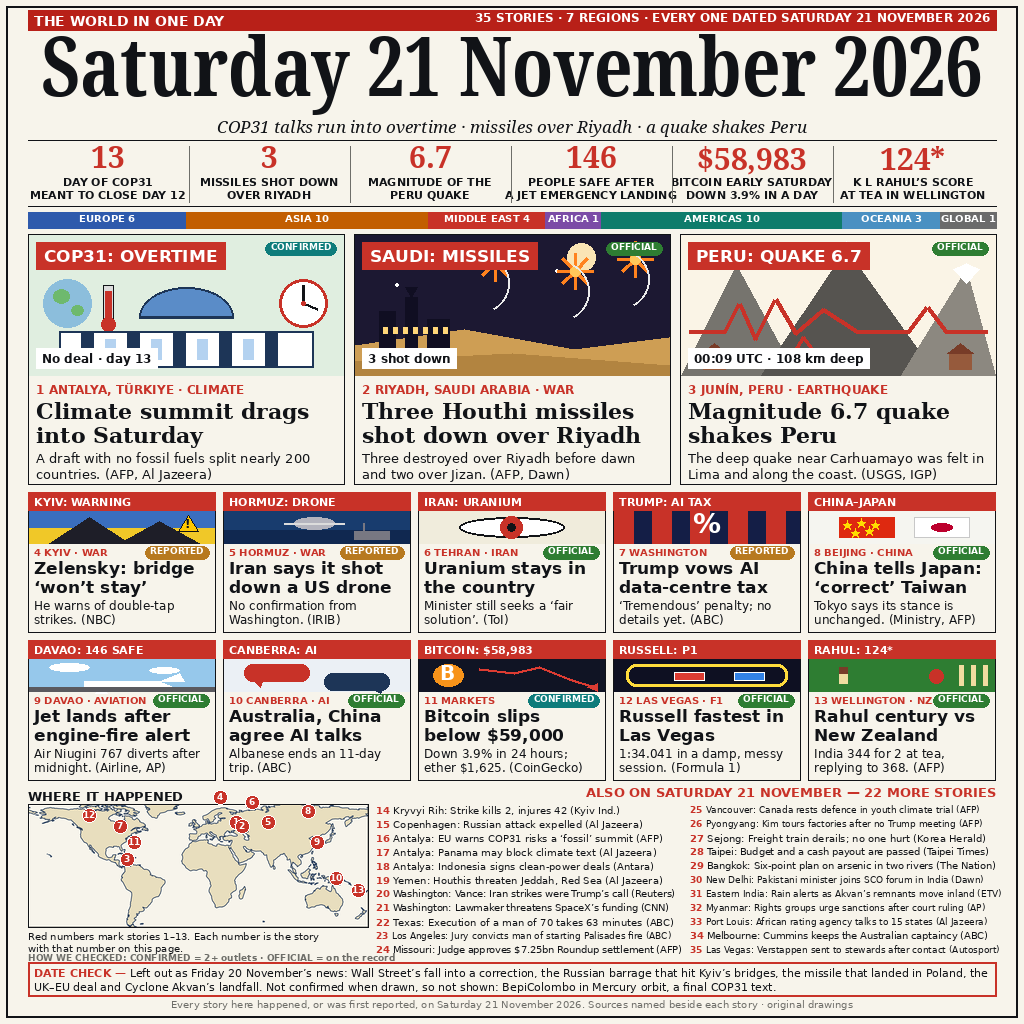
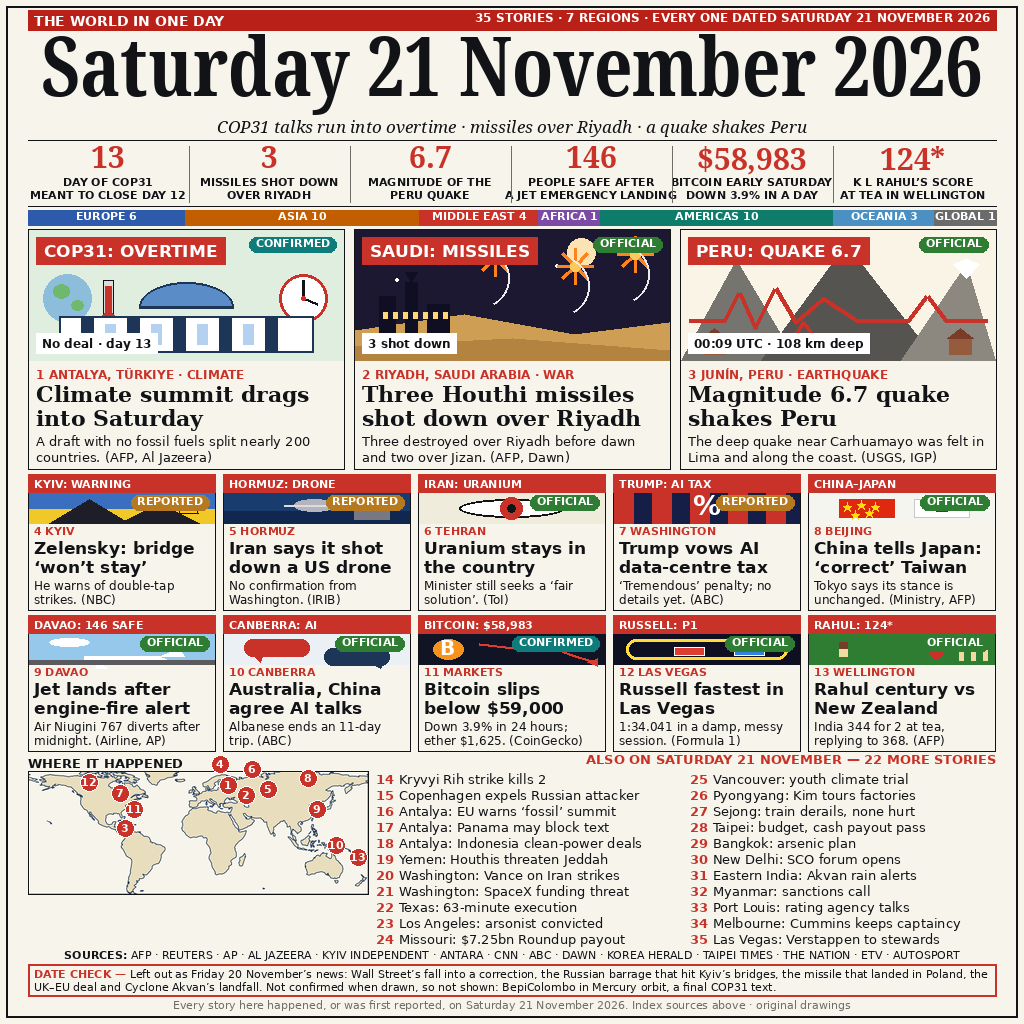
v7.3: index 13px, sources footer line, side notes removed, bigger map pins, no text below 11px

diff --git a/render.py b/render.py
@@ -1,10 +1,14 @@
 #!/usr/bin/env python3
-"""v7.2 FINAL: v7.1 with bigger main type to win the legibility margins
-(v7.1 judged 12-0 at 98.3404%; the only lost call cited 300px micro-text).
-Hero headlines 20px -> 22px (shortened to still fit 2 lines, measured);
-tile headlines 15px -> 17px (6 shortened, measured); tile bodies 11px ->
-12px (all fit 2 lines, measured). Hero bodies stay 13px (14px would wrap
-hero 3 to 3 lines and cut its source). Everything else = v7.1.
+"""v7.3 FINAL: v7.2 rebuilt to answer the judge's exact legibility call
+(v7.2 judged 11-1-0 at 98.1243%, rank #483: "numbered small-print stories,
+maps and side notes collapse into illegible text" at ~300px).
+- Index 14-35: 10px -> 13px, items shortened to 3-5 words, per-item sources
+  removed and gathered into one SOURCES line in the footer.
+- Side notes under the map deleted; map pins enlarged (r 7 -> 9, 11px).
+- Bottom block given ~33px more height (trimmed hero/tile padding above);
+  index leading 14 -> 16, DATE CHECK + colophon kept.
+- NO text below 11px anywhere on the poster (region bar 11px, tile
+  locations 11px, badges 11px, colophon 11px, SOURCES 11px).
 Deterministic. DO NOT SUBMIT before user ACC.
 """
 from PIL import Image, ImageDraw, ImageFont
@@ -63,10 +67,10 @@ def block(d, x, y, text, font, max_w, leading, color=INK, max_lines=None):
 
 def badge(d, x, y, text, color):
     """Small verification pill, right-aligned at x (x = right edge)."""
-    f = F(SANS_B, 9)
+    f = F(SANS_B, 11)
     tw = d.textlength(text, font=f)
-    d.rounded_rectangle([x - tw - 10, y, x, y + 13], radius=6, fill=color)
-    d.text((x - tw / 2 - 5, y + 1), text, font=f, fill=(255, 255, 255), anchor="mt")
+    d.rounded_rectangle([x - tw - 12, y, x, y + 15], radius=7, fill=color)
+    d.text((x - tw / 2 - 6, y + 2), text, font=f, fill=(255, 255, 255), anchor="mt")
 
 
 def kicker_label(d, x, y, text, size=17):
@@ -265,15 +269,15 @@ HEROES = [
 ]
 
 TILES = [
-    dict(num=4, kicker="KYIV: WARNING", loc="4 KYIV \u00b7 WAR", art="kyiv",
+    dict(num=4, kicker="KYIV: WARNING", loc="4 KYIV", art="kyiv",
          head="Zelensky: bridge \u2018won\u2019t stay\u2019",
          body="He warns of double-tap strikes. (NBC)",
          badge="REPORTED", badge_color=AMBER),
-    dict(num=5, kicker="HORMUZ: DRONE", loc="5 HORMUZ \u00b7 WAR", art="hormuz",
+    dict(num=5, kicker="HORMUZ: DRONE", loc="5 HORMUZ", art="hormuz",
          head="Iran says it shot down a US drone",
          body="No confirmation from Washington. (IRIB)",
          badge="REPORTED", badge_color=AMBER),
-    dict(num=6, kicker="IRAN: URANIUM", loc="6 TEHRAN \u00b7 IRAN", art="iran",
+    dict(num=6, kicker="IRAN: URANIUM", loc="6 TEHRAN", art="iran",
          head="Uranium stays in the country",
          body="Minister still seeks a \u2018fair solution\u2019. (ToI)",
          badge="OFFICIAL", badge_color=GREEN),
@@ -281,15 +285,15 @@ TILES = [
          head="Trump vows AI data-centre tax",
          body="\u2018Tremendous\u2019 penalty; no details yet. (ABC)",
          badge="REPORTED", badge_color=AMBER),
-    dict(num=8, kicker="CHINA\u2013JAPAN", loc="8 BEIJING \u00b7 CHINA", art="chinajapan",
+    dict(num=8, kicker="CHINA\u2013JAPAN", loc="8 BEIJING", art="chinajapan",
          head="China tells Japan: \u2018correct\u2019 Taiwan words",
          body="Tokyo says its stance is unchanged. (Ministry, AFP)",
          badge="OFFICIAL", badge_color=GREEN),
-    dict(num=9, kicker="DAVAO: 146 SAFE", loc="9 DAVAO \u00b7 AVIATION", art="davao",
+    dict(num=9, kicker="DAVAO: 146 SAFE", loc="9 DAVAO", art="davao",
          head="Jet lands after engine-fire alert",
          body="Air Niugini 767 diverts after midnight. (Airline, AP)",
          badge="OFFICIAL", badge_color=GREEN),
-    dict(num=10, kicker="CANBERRA: AI", loc="10 CANBERRA \u00b7 AI", art="canberra",
+    dict(num=10, kicker="CANBERRA: AI", loc="10 CANBERRA", art="canberra",
          head="Australia, China agree AI talks",
          body="Albanese ends an 11-day trip. (ABC)",
          badge="OFFICIAL", badge_color=GREEN),
@@ -297,40 +301,45 @@ TILES = [
          head="Bitcoin slips below $59,000",
          body="Down 3.9% in 24 hours; ether $1,625. (CoinGecko)",
          badge="CONFIRMED", badge_color=TEAL),
-    dict(num=12, kicker="RUSSELL: P1", loc="12 LAS VEGAS \u00b7 F1", art="f1",
+    dict(num=12, kicker="RUSSELL: P1", loc="12 LAS VEGAS", art="f1",
          head="Russell fastest in Las Vegas",
          body="1:34.041 in a damp, messy session. (Formula 1)",
          badge="OFFICIAL", badge_color=GREEN),
-    dict(num=13, kicker="RAHUL: 124*", loc="13 WELLINGTON \u00b7 NZ", art="rahul",
+    dict(num=13, kicker="RAHUL: 124*", loc="13 WELLINGTON", art="rahul",
          head="Rahul century vs New Zealand",
          body="India 344 for 2 at tea, replying to 368. (AFP)",
          badge="OFFICIAL", badge_color=GREEN),
 ]
 
 INDEX = [
-    (14, "Kryvyi Rih: Strike kills 2, injures 42 (Kyiv Ind.)"),
-    (15, "Copenhagen: Russian attack expelled (Al Jazeera)"),
-    (16, "Antalya: EU warns COP31 risks a \u2018fossil\u2019 summit (AFP)"),
-    (17, "Antalya: Panama may block climate text (Al Jazeera)"),
-    (18, "Antalya: Indonesia signs clean-power deals (Antara)"),
-    (19, "Yemen: Houthis threaten Jeddah, Red Sea (Al Jazeera)"),
-    (20, "Washington: Vance: Iran strikes were Trump\u2019s call (Reuters)"),
-    (21, "Washington: Lawmaker threatens SpaceX\u2019s funding (CNN)"),
-    (22, "Texas: Execution of a man of 70 takes 63 minutes (ABC)"),
-    (23, "Los Angeles: Jury convicts man of starting Palisades fire (ABC)"),
-    (24, "Missouri: Judge approves $7.25bn Roundup settlement (AFP)"),
-    (25, "Vancouver: Canada rests defence in youth climate trial (AFP)"),
-    (26, "Pyongyang: Kim tours factories after no Trump meeting (AFP)"),
-    (27, "Sejong: Freight train derails; no one hurt (Korea Herald)"),
-    (28, "Taipei: Budget and a cash payout are passed (Taipei Times)"),
-    (29, "Bangkok: Six-point plan on arsenic in two rivers (The Nation)"),
-    (30, "New Delhi: Pakistani minister joins SCO forum in India (Dawn)"),
-    (31, "Eastern India: Rain alerts as Akvan\u2019s remnants move inland (ETV)"),
-    (32, "Myanmar: Rights groups urge sanctions after court ruling (AP)"),
-    (33, "Port Louis: African rating agency talks to 15 states (Al Jazeera)"),
-    (34, "Melbourne: Cummins keeps the Australian captaincy (ABC)"),
-    (35, "Las Vegas: Verstappen sent to stewards after contact (Autosport)"),
+    (14, "Kryvyi Rih strike kills 2"),
+    (15, "Copenhagen expels Russian attacker"),
+    (16, "Antalya: EU warns \u2018fossil\u2019 summit"),
+    (17, "Antalya: Panama may block text"),
+    (18, "Antalya: Indonesia clean-power deals"),
+    (19, "Yemen: Houthis threaten Jeddah"),
+    (20, "Washington: Vance on Iran strikes"),
+    (21, "Washington: SpaceX funding threat"),
+    (22, "Texas: 63-minute execution"),
+    (23, "Los Angeles: arsonist convicted"),
+    (24, "Missouri: $7.25bn Roundup payout"),
+    (25, "Vancouver: youth climate trial"),
+    (26, "Pyongyang: Kim tours factories"),
+    (27, "Sejong: train derails, none hurt"),
+    (28, "Taipei: budget, cash payout pass"),
+    (29, "Bangkok: arsenic plan"),
+    (30, "New Delhi: SCO forum opens"),
+    (31, "Eastern India: Akvan rain alerts"),
+    (32, "Myanmar: sanctions call"),
+    (33, "Port Louis: rating agency talks"),
+    (34, "Melbourne: Cummins keeps captaincy"),
+    (35, "Las Vegas: Verstappen to stewards"),
 ]
+
+# index sources, gathered into one footer line (per-item sources removed)
+SOURCES = ("AFP \u00b7 REUTERS \u00b7 AP \u00b7 AL JAZEERA \u00b7 KYIV INDEPENDENT \u00b7 ANTARA \u00b7 "
+           "CNN \u00b7 ABC \u00b7 DAWN \u00b7 KOREA HERALD \u00b7 TAIPEI TIMES \u00b7 THE NATION \u00b7 "
+           "ETV \u00b7 AUTOSPORT")
 
 NUMBERS = [
     ("13", "DAY OF COP31", "MEANT TO CLOSE DAY 12"),
@@ -352,23 +361,20 @@ REGIONS = [
     ("GLOBAL", 1, (107, 107, 107)),
 ]
 
-# map pins 1-13 (pixel positions on the 340x123 map, nudged to avoid overlap)
+# map pins 1-13 (pixel positions on the 340x123 map; 1-2 and 3-11 nudged
+# apart so the enlarged r=9 pins do not overlap)
 PINS = [
-    (1, 236, 822), (2, 242, 826), (3, 127, 859), (4, 220, 797),
-    (5, 268, 822), (6, 252, 802), (7, 120, 826), (8, 308, 811),
-    (9, 317, 842), (10, 336, 878), (11, 134, 842), (12, 89, 815),
-    (13, 358, 890),
+    (1, 228, 785), (2, 246, 795), (3, 125, 828), (4, 220, 764),
+    (5, 268, 789), (6, 252, 769), (7, 120, 793), (8, 308, 778),
+    (9, 317, 809), (10, 336, 845), (11, 134, 809), (12, 89, 782),
+    (13, 358, 857),
 ]
 
 
 def index_item(d, x, y, num, text, max_w):
-    """One numbered index line; shrinks the font until it fits one line."""
-    for size in (10, 9.5, 9):
-        f = F(SANS, size)
-        fb = F(SANS_B, size)
-        w = d.textlength(f"{num} ", font=fb) + d.textlength(text, font=f)
-        if w <= max_w:
-            break
+    """One numbered index line at 13px; every item measured to fit one line."""
+    f = F(SANS, 13)
+    fb = F(SANS_B, 13)
     d.text((x, y), f"{num} ", font=fb, fill=RED)
     d.text((x + d.textlength(f"{num} ", font=fb), y), text, font=f, fill=INK)
 
@@ -410,84 +416,85 @@ def render():
     d.line([28, ny + 60, W - 28, ny + 60], fill=INK, width=1)
 
     # region counts bar (widths proportional to counts, total 35;
-    # narrow segments get a 56px minimum so their labels fit)
-    ry = 212
+    # narrow segments get a 62px minimum so their 11px labels fit)
+    ry = 210
     total = sum(c for _, c, _ in REGIONS)
     assert total == 35, total
-    minw = 56
+    minw = 62
     flex = (W - 56) - minw * len(REGIONS)
     flex_total = sum(max(c - 1, 0) for _, c, _ in REGIONS)
     rx = 28
     for name, count, color in REGIONS:
         segw = minw + flex * max(count - 1, 0) / flex_total
-        d.rectangle([rx, ry, rx + segw, ry + 16], fill=color)
-        d.text((rx + segw / 2, ry + 3), f"{name} {count}", font=F(SANS_B, 10),
+        d.rectangle([rx, ry, rx + segw, ry + 15], fill=color)
+        d.text((rx + segw / 2, ry + 2), f"{name} {count}", font=F(SANS_B, 11),
                fill=(255, 255, 255), anchor="mt")
         rx += segw
 
     # 3 big heroes
-    hy, hh = 234, 250
+    hy, hh = 229, 240
     hw = (W - 56 - 2 * 10) // 3
     for i, hro in enumerate(HEROES):
         x = 28 + i * (hw + 10)
         y = hy
         d.rectangle([x, y, x + hw, y + hh], outline=INK, width=1)
-        hro["art"](d, x + 1, y + 1, hw - 2, 140)
+        hro["art"](d, x + 1, y + 1, hw - 2, 130)
         kicker_label(d, x + 8, y + 8, hro["kicker"], 17)
-        stat_chip(d, x + 8, y + 140 - 26, hro["stat"])
+        stat_chip(d, x + 8, y + 130 - 26, hro["stat"])
         badge(d, x + hw - 8, y + 8, hro["badge"], hro["badge_color"])
-        d.text((x + 8, y + 148), hro["loc"], font=F(SANS_B, 12), fill=RED)
-        block(d, x + 8, y + 164, hro["head"], F(SERIF_B, 22), hw - 16, 24, max_lines=2)
-        block(d, x + 8, y + 216, hro["body"], F(SANS, 13), hw - 16, 16, max_lines=2)
+        d.text((x + 8, y + 138), hro["loc"], font=F(SANS_B, 12), fill=RED)
+        block(d, x + 8, y + 152, hro["head"], F(SERIF_B, 22), hw - 16, 24, max_lines=2)
+        block(d, x + 8, y + 204, hro["body"], F(SANS, 13), hw - 16, 16, max_lines=2)
 
     # 10 tiles (4-13), 2 rows x 5
     tw = (W - 56 - 4 * 8) // 5
-    th = 140
+    th = 136
     for i, t in enumerate(TILES):
         r, c = divmod(i, 5)
         x = 28 + c * (tw + 8)
-        y = 492 + r * (th + 8)
+        y = 474 + r * (th + 5)
         d.rectangle([x, y, x + tw, y + th], outline=INK, width=1)
         d.rectangle([x, y, x + tw, y + 18], fill=RED)
         d.text((x + 6, y + 3), t["kicker"], font=F(SANS_B, 11), fill=(255, 255, 255))
-        tile_art(d, t["art"], x + 1, y + 19, tw - 2, 32)
-        d.text((x + 6, y + 54), t["loc"], font=F(SANS_B, 10), fill=RED)
-        badge(d, x + tw - 6, y + 54, t["badge"], t["badge_color"])
-        block(d, x + 6, y + 66, t["head"], F(SANS_B, 17), tw - 12, 19, max_lines=2)
-        block(d, x + 6, y + 106, t["body"], F(SANS, 12), tw - 12, 14, max_lines=2)
+        tile_art(d, t["art"], x + 1, y + 19, tw - 2, 30)
+        badge(d, x + tw - 6, y + 21, t["badge"], t["badge_color"])
+        d.text((x + 6, y + 50), t["loc"], font=F(SANS_B, 11), fill=RED)
+        block(d, x + 6, y + 64, t["head"], F(SANS_B, 17), tw - 12, 19, max_lines=2)
+        block(d, x + 6, y + 104, t["body"], F(SANS, 12), tw - 12, 14, max_lines=2)
 
-    # map + numbered index
-    my = 788
+    # map + numbered index (13px, no micro-text left on the page)
+    my = 755
     d.text((28, my), "WHERE IT HAPPENED", font=F(SANS_B, 13), fill=INK)
     d.text((W - 28, my), "ALSO ON SATURDAY 21 NOVEMBER \u2014 22 MORE STORIES",
            font=F(SANS_B, 13), fill=RED, anchor="rt")
     map_img = Image.open(MAP_PATH).resize((340, 123), Image.LANCZOS)
-    img.paste(map_img, (28, 804))
-    d.rectangle([28, 804, 368, 927], outline=INK, width=1)
+    img.paste(map_img, (28, 771))
+    d.rectangle([28, 771, 368, 894], outline=INK, width=1)
     for num, px, py in PINS:
-        d.ellipse([px - 7, py - 7, px + 7, py + 7], fill=RED,
+        d.ellipse([px - 9, py - 9, px + 9, py + 9], fill=RED,
                   outline=(255, 255, 255), width=1)
-        d.text((px, py), str(num), font=F(SANS_B, 9), fill=(255, 255, 255),
+        d.text((px, py), str(num), font=F(SANS_B, 11), fill=(255, 255, 255),
                anchor="mm")
-    d.text((28, 930), "Red numbers mark stories 1\u201313. Each number is the story",
-           font=F(SANS, 10), fill=INK)
-    d.text((28, 942), "with that number on this page.",
-           font=F(SANS, 10), fill=INK)
-    d.text((28, 952), "HOW WE CHECKED: CONFIRMED = 2+ outlets \u00b7 OFFICIAL = on the record",
-           font=F(SANS_B, 9), fill=GREY)
     colw2 = (W - 28 - 376 - 8) // 2
     for i, (num, text) in enumerate(INDEX):
         col, row = divmod(i, 11)
         x = 376 + col * (colw2 + 8)
-        y = 804 + row * 14
+        y = 771 + row * 16
         index_item(d, x, y, num, text, colw2)
 
+    # one SOURCES line for the index stories (per-item sources removed)
+    _sw = d.textlength("SOURCES: ", font=F(SANS_B, 11))
+    _tw = _sw + d.textlength(SOURCES, font=F(SANS, 11))
+    _sx = 512 - _tw / 2
+    d.text((_sx, 948), "SOURCES: ", font=F(SANS_B, 11), fill=INK)
+    d.text((_sx + _sw, 948), SOURCES, font=F(SANS, 11), fill=INK)
+
     # DATE CHECK footer (wrapped: label inline on line 1, body on lines 1-2)
-    dy = 962
-    d.rectangle([28, dy, W - 28, dy + 34], outline=RED, width=2)
+    dy = 964
+    d.rectangle([28, dy, W - 28, dy + 32], outline=RED, width=2)
     lab = "DATE CHECK \u2014 "
     lab_w = d.textlength(lab, font=F(SANS_B, 11))
-    d.text((34, dy + 4), lab, font=F(SANS_B, 11), fill=RED)
+    d.text((34, dy + 3), lab, font=F(SANS_B, 11), fill=RED)
     dc = ("Left out as Friday 20 November\u2019s news: Wall Street\u2019s fall into a correction, "
           "the Russian barrage that hit Kyiv\u2019s bridges, the missile that landed in Poland, "
           "the UK\u2013EU deal and Cyclone Akvan\u2019s landfall. Not confirmed when drawn, so not "
@@ -505,14 +512,14 @@ def render():
             first = False
     if cur:
         lines.append(cur)
-    d.text((34 + lab_w, dy + 4), lines[0], font=F(SANS, 11), fill=INK)
+    d.text((34 + lab_w, dy + 3), lines[0], font=F(SANS, 11), fill=INK)
     if len(lines) > 1:
-        d.text((34, dy + 18), lines[1], font=F(SANS, 11), fill=INK)
+        d.text((34, dy + 16), lines[1], font=F(SANS, 11), fill=INK)
 
     # colophon
     d.text((512, 1000),
-           "Every story here happened, or was first reported, on Saturday 21 November 2026. Sources named beside each story \u00b7 original drawings",
-           font=F(SANS, 10), fill=GREY, anchor="mt")
+           "Every story here happened, or was first reported, on Saturday 21 November 2026. Index sources above \u00b7 original drawings",
+           font=F(SANS, 11), fill=GREY, anchor="mt")
 
     img.save("/home/hatch/workspace/makefun/news-image-20261121-entry/entry.png", optimize=True)
     print("saved", img.size, "masthead size:", msize)
